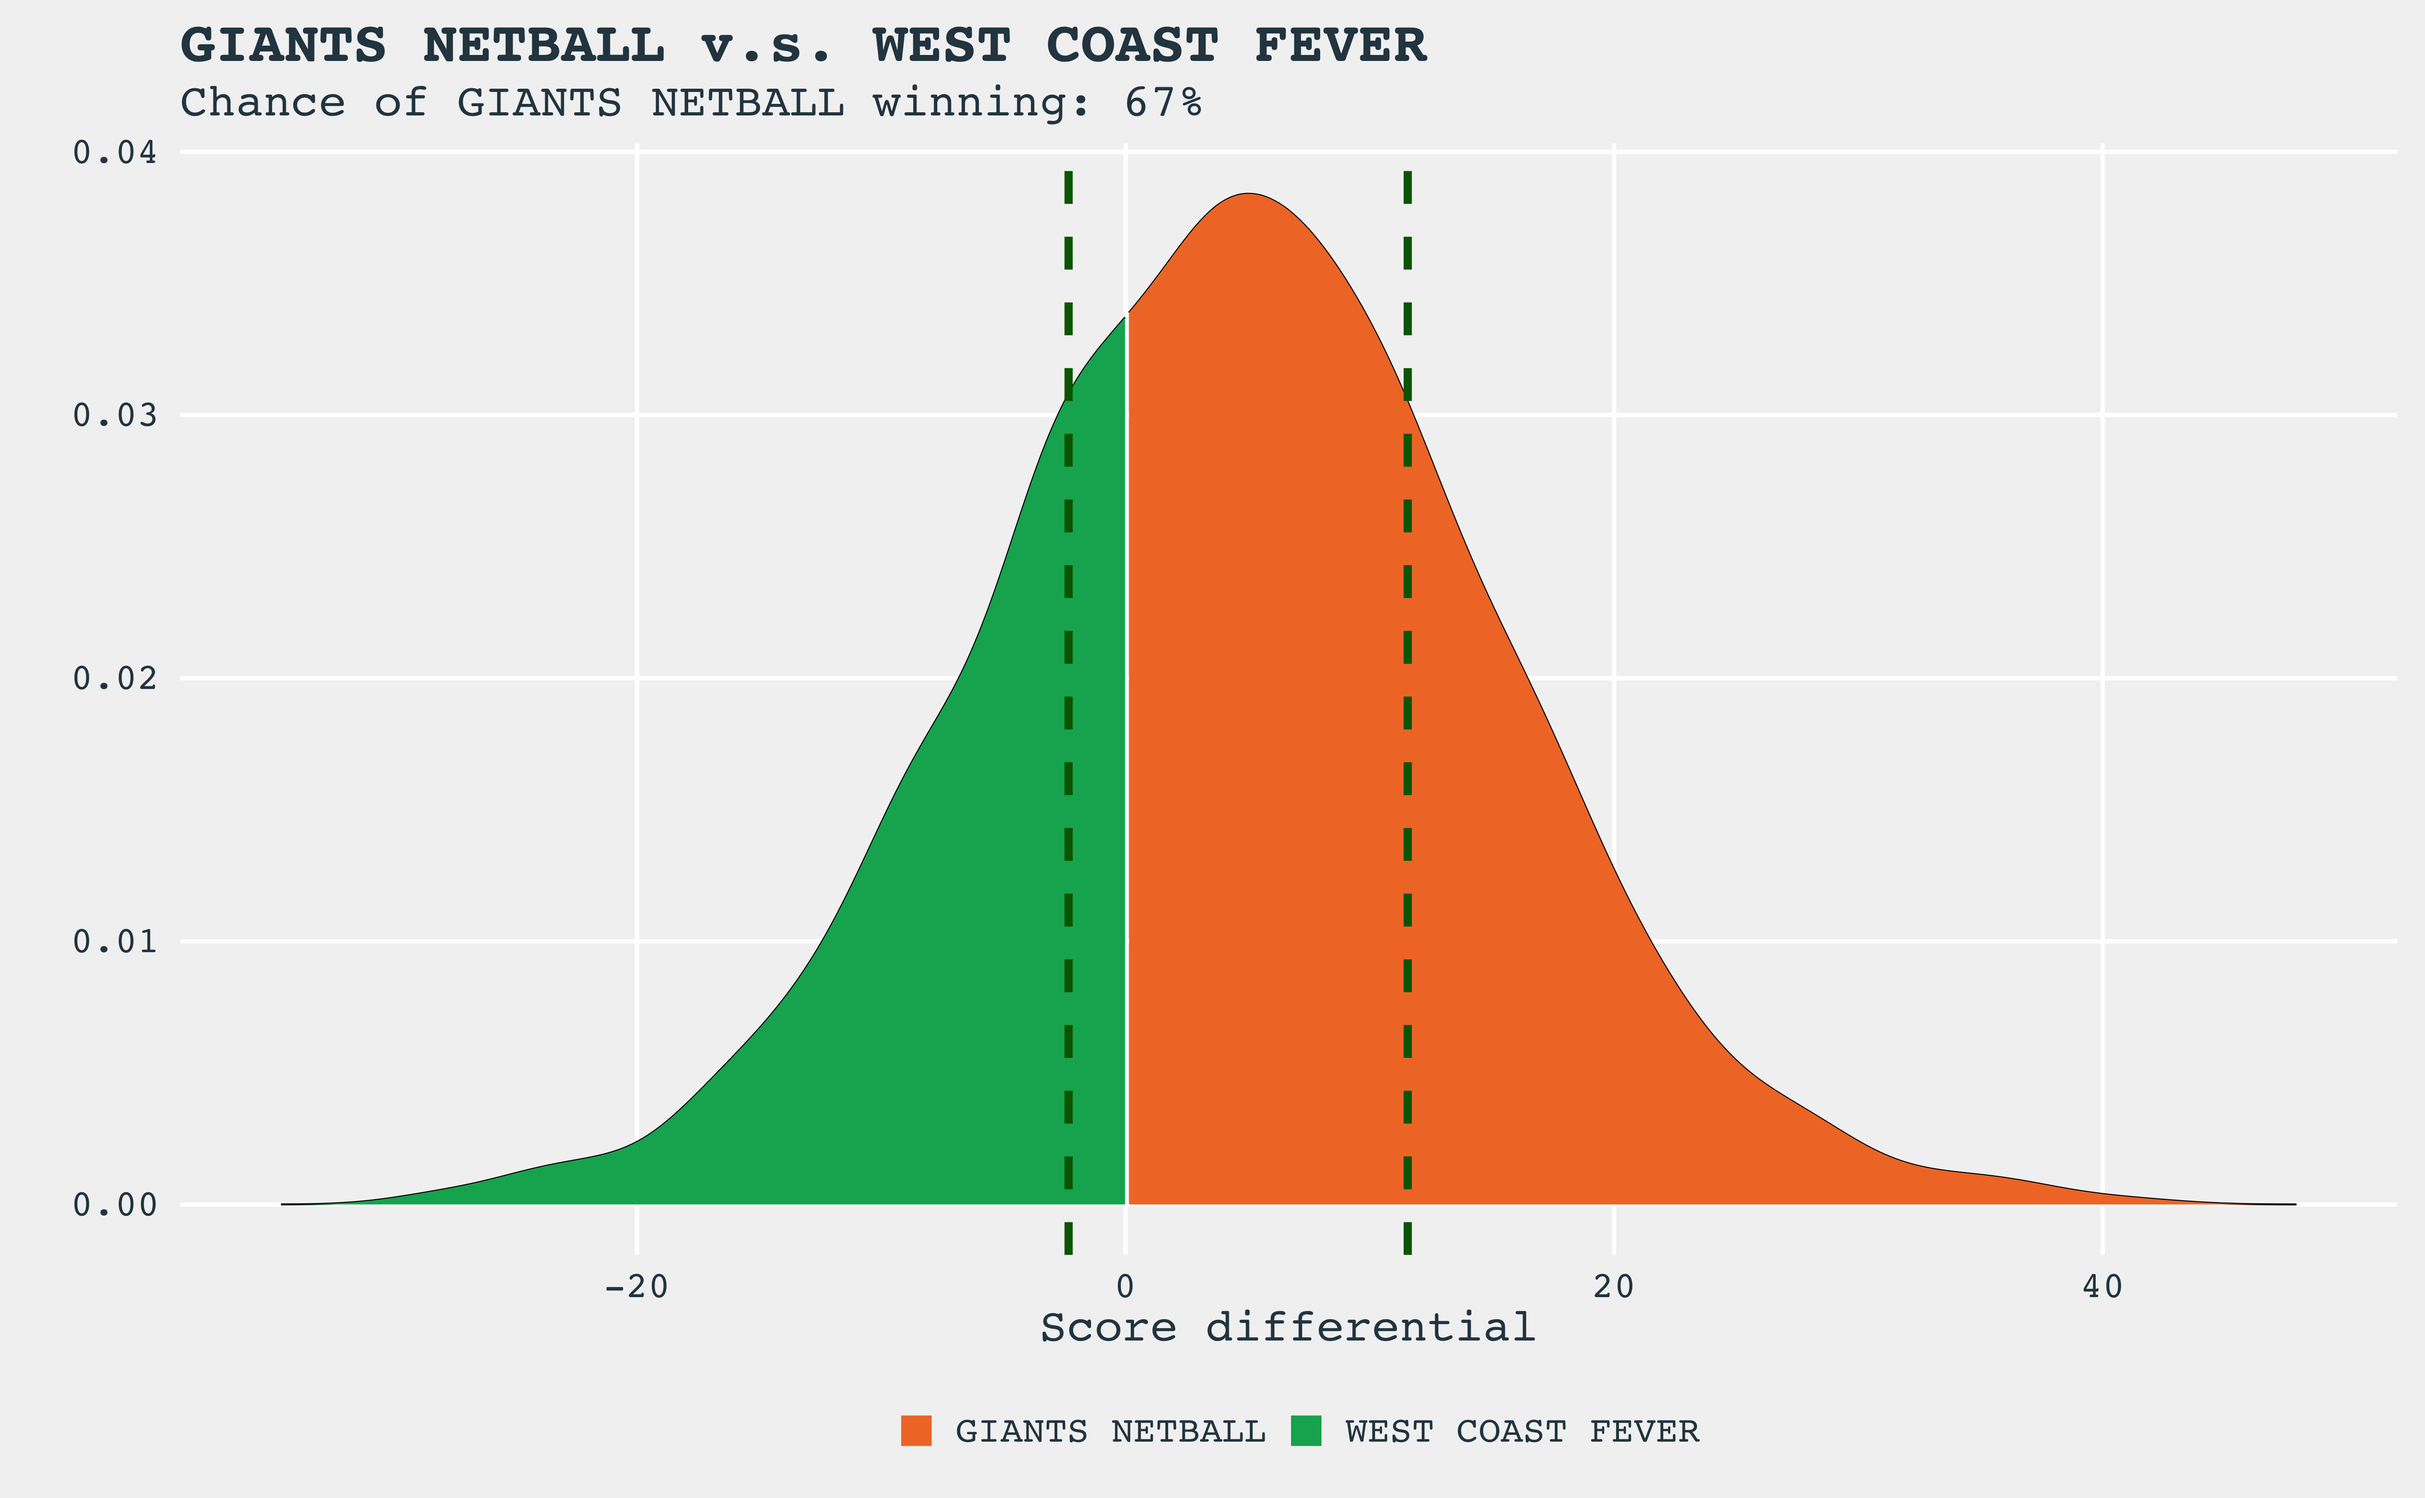
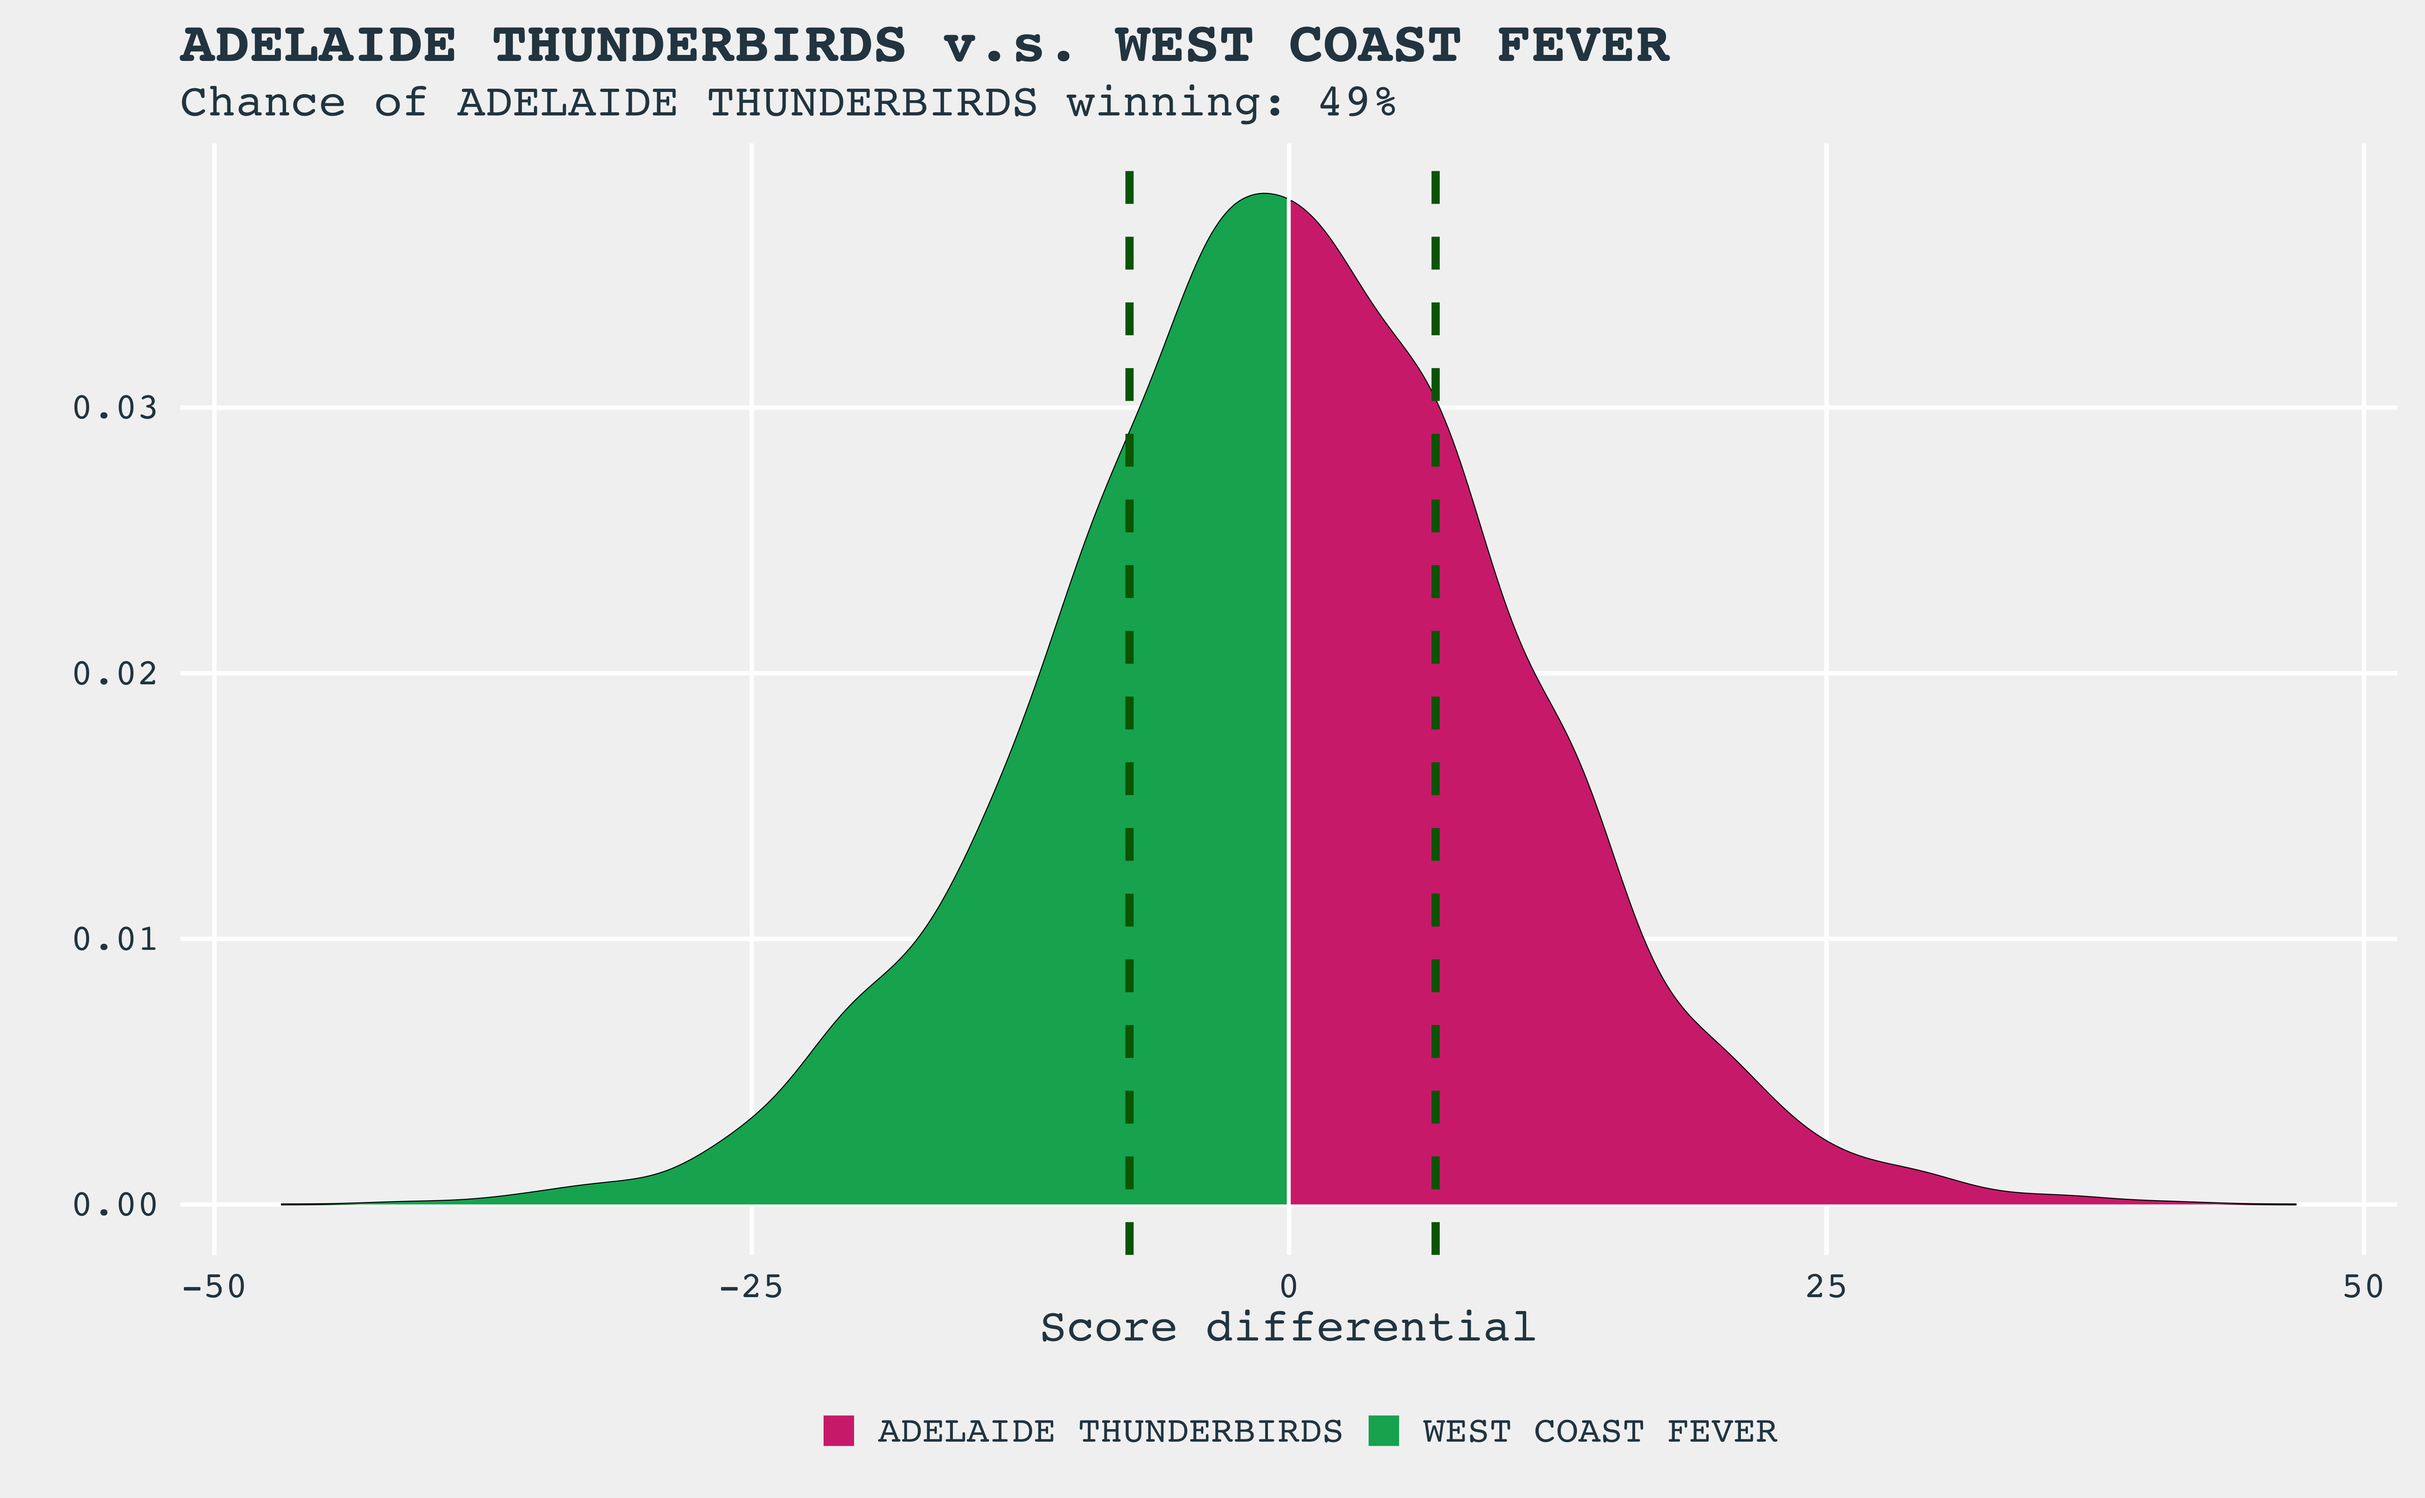
updates to round 1 fixture

diff --git a/content/post/2020-07-25-round1.md b/content/post/2020-07-25-round1.md
@@ -12,6 +12,8 @@ categories: ["blog", "Super Netball"]
 
 
 
+*UPDATE*: with the rearrangement of games due to Covid-19, I've updated the predictions; the predictions below represent the current round 1 fixture as at 19:30, 29th July.
+
 The first round of the 2020 Super Netball season is on us! This is going to be one weird season with the whole Covid-19 happening and all teams being based in Queensland.
 
 To kick this season off, I've used the team abilities from my model after the finish f the home and away matches in 2019 to create prior distributions for the 2020 season. To refresh your memory, [here's]({{< relref "2018-04-22-introduction.md" >}}) a description of how my model works. The issue with this season is that a home ground advantage is going to be something that's really hard to define conceptually. At least the first round of games will not have spectators (for the Victorian clubs), but moreso, you'd have to think the two Queensland clubs would be at an advantage for home ground advantage. At this late point leading up to the start of the season, I haven't had time to revisit the model and tweak the HGA. Perhaps later in the season I'll get that chance.
@@ -23,12 +25,12 @@ The figure below shows how the model had the teams after the end of home and awa
 Predictions for the first round are given in the table below. The priors for these distributions are based purely on the final abilities from last season and do not account for any roster changes in the teams. Furthermore, the model uses score differentials to make predictions, so it will take a few rounds for the model to calibrate.
 
 
-|Home                 |Away                     |Chance of home team winning |
-|:--------------------|:------------------------|:---------------------------|
-|Queensland Firebirds |Sunshine Coast Lightning |8%                          |
-|GIANTS Netball       |West Coast Fever         |67%                         |
-|NSW Swifts           |Adelaide Thunderbirds    |93%                         |
-|Melbourne Vixens     |Magpies Netball          |82%                         |
+|Home                  |Away                     |Chance of home team winning |
+|:---------------------|:------------------------|:---------------------------|
+|Queensland Firebirds  |Sunshine Coast Lightning |8%                          |
+|Adelaide Thunderbirds |West Coast Fever         |49%                         |
+|GIANTS Netball        |NSW Swifts               |53%                         |
+|Melbourne Vixens      |Magpies Netball          |83%                         |
 
 ## Score Differential Distributions
 
